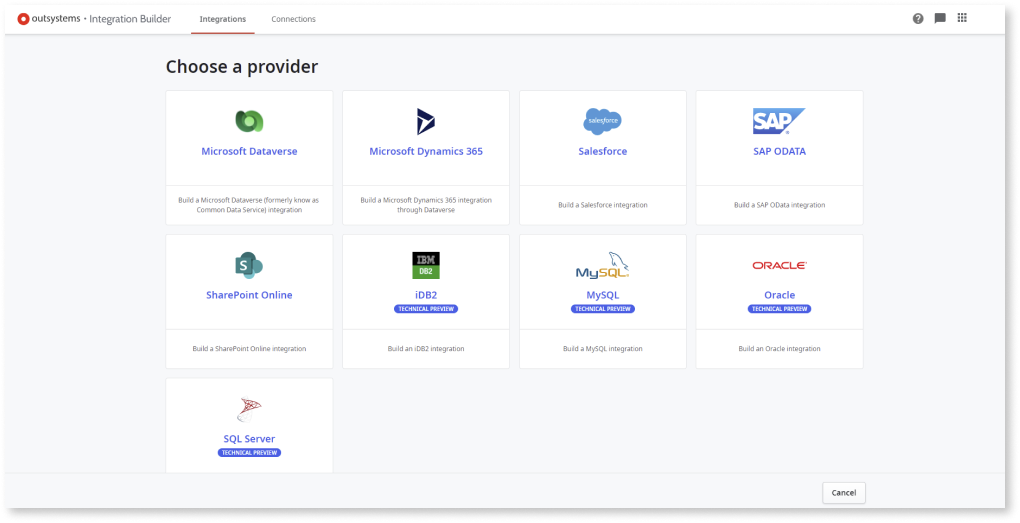
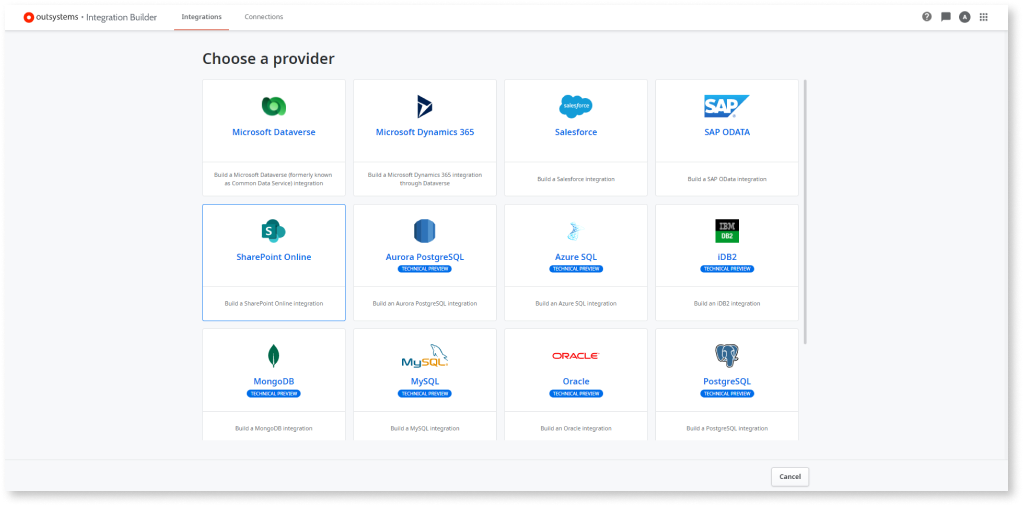
no message

diff --git a/src/extensibility-and-integration/external-database/mongo-db.md b/src/extensibility-and-integration/external-database/mongo-db.md
@@ -1,0 +1,250 @@
+---
+summary: Learn how to use a MongoDB integration in your apps.
+---
+
+# Using MongoDB integration
+
+After [publishing a MongoDB integration](integrate-external-db-ib.md#review) and [referencing it in an app](integrate-external-db-ib.md#use), you can start using the integration to interact with the MongoDB database.
+
+## Modules in MongoDB integrations { #structure }
+
+Integrations with MongoDB include one app with the following modules:
+
+* A **library module** that exposes Server Actions with logic to interact with MongoDB data. By default, the module name has a "_DRV" suffix, meaning "driver".
+
+* A **service module** that provides an abstraction layer on top of the Server Actions from the library module. Your apps should reference this module when interacting with MongoDB. The Server Actions exposed in this module use the credentials stored in connections to authenticate requests, and you don't need to provide authentication data in each Server Action call. By default, the module name has a "_IS" suffix, meaning "integration service". with suffixes DRV and IS in their names.
+
+### Actions in the service module { #actions }
+
+Use the server actions in the service module to interact with the MongoDB database.
+
+The service module includes the following server actions:
+
+* **Search&lt;collection-name&gt;Documents** - Searches for documents in the MongoDB collection that match the given filters. You can use the **Projection** input to limit the amount of data that MongoDB sends:
+
+     Projection
+    :   Include a projection document to specify or restrict fetched fields. Check [MongoDB documentation](https://docs.mongodb.com/manual/reference/glossary/#std-term-projection) for more details.
+    The **Projection** input includes two attributes:
+
+    * **IsExclude** - When set to `True`, the fields in **Field List** are excluded from the response. When set to `False`, only the fields in **Field List** and the _id are included in the response.
+    * **Fields list** - The fields to use with the projection.
+
+* **Get&lt;collection-name&gt;Document** - Gets a document from the MongoDB collection by its id.
+    This action includes two inputs:
+
+    DocumentId
+    :    The **DocumentId** input is the identifier of the document you want to fetch and you must ensure it uses the correct data type in a supported format.
+        For example, if the data type of the structure identifier,**_id**, is ObjectId, then DocumentId must have one the following formats:
+        * `"ObjectId(<hexadecimal>)"` (Shell format)
+        * `"{ $oid: ""<hexadecimal>"" }"` (both for Canonical and Relaxed Extended JSON Format)
+
+    Projection
+    :   Use this input to limit the amount of data that MongoDB sends, by including a projection document to specify or restrict fetched fields. Check [MongoDB documentation](https://docs.mongodb.com/manual/reference/glossary/#std-term-projection) for more details.
+        The **Projection** input includes two attributes:
+        * **IsExclude** - When set to `True`, the fields in **Field List** are excluded from the response. When set to `False`, only the fields in **Field List** and the _id are included in the response.
+        * **Fields list** - The fields to use with the projection.
+
+* **Count&lt;collection-name&gt;Documents** - Counts the documents in the MongoDB collection that match the given filters.
+
+* **Create&lt;collection-name&gt;Document** - Inserts a document in the MongoDB collection.
+
+* **Replace&lt;collection-name&gt;Document** - Finds the document in the MongoDB collection with the given DocumentId and replaces it.
+
+* **Delete&lt;collection-name&gt;Documents** - Deletes the documents in the MongoDB collection that match the given filters.
+
+### Converting data to and from JSON { #convert }
+
+The server actions retrieve and receive MongoDB data as JSON, so you need to create Structures to represent the JSON structure in your apps.
+
+![Example of a structure that represents a Student MongoDB document](images/structure-ss.png)
+
+You can create the Structures manually, or use **Add structure from JSON...** to automatically convert the JSON to a Structure. **Add structure from JSON...** is available in the context menu fro the **Structures** folder in the **Data** tab.
+
+Use canonical JSON format.
+
+If the JSON includes nested objects, create separate Structures for those objects. Then, in the main Structure set the data type of the attributes that represent the nested objects to the separate Structures.
+
+Furthermore, you need to convert to or from JSON when your app interacts with MongoDB data:
+
+* The server actions used to fetch data retrieve data as JSON, so you need to deserialize the data before handling it or showing it in your apps.
+
+* The server actions used to create or update data receive data as JSON, so you need to serialized your data as JSON before changing the data in the MongoDB database.
+
+## Site Property
+
+The Integration Manager MongoDB Plugin, a dependency of Integration Builder, contains one API to list and create MongoDB database connections in environments. This API only needs to be enabled in the development environment.
+To reduce potential attack vectors in your production environments, in the same plugin you can find a site property to disable the API. Disable this site property in all environments except the development environment.
+**Enable_MongoDB_IntegrationBuilder_API** site property can be found in the **IM_MongoDB_API** module under the Integration Manager MongoDB Plugin application. The default value is **True** (enabled).
+
+## Prerequisites
+
+Before you start, ensure you created an app with a module and [added the integration as a dependency to your module in Service Studio](integrate-external-db-ib.md#use).
+
+## Add a record
+
+Adding a record, known as a document in MongoDB, includes the following key steps:
+
+![Key steps to add a record using a MongoDB integration](images/add-record-diag.png)
+
+1. [Create a Structure to represent a MongoDB document](#structure-record).
+
+1. [In an action, create a local variable or input parameter to hold data](#fetch-record).
+
+1. [Serialize the data](#deserialize-record).
+
+1. [Save the data in MongoDB using the **Create&lt;collection-name&gt;Document** action](#fetch-record).
+
+### Create structure
+
+Start by creating a Structure that represents the JSON structure of the document you want your app to interact with.
+
+Don’t include the document identifier if you want Integration Builder to generate new identifiers while creating documents.
+
+Check the [converting data to and from JSON](#convert) to learn more about creating the Structure.
+
+### Create a local variable or input parameter
+
+Now in the action where you want to add data, create a Local Variable or input parameter to hold the data before sending it to the MongoDB database. Do the following:
+
+1. Add a **Local Variable** to the screen. If you are creating an action that isn't in a screen, create an **Input Parameter** in the action itself.
+
+1. Set the **Data Type** of the Local Variable or Input Parameter as the structure you created previously.
+
+1. If you are creating an action in a screen, ensure that the **Variable** of each input UI element uses the correct attributes of **Local Variable**.
+
+### Serialize data
+
+Now in the action where you want to add data, do the following:
+
+1. In the action flow, add a **Serialize JSON**.
+
+1. In the properties of **Serialize JSON**, set **Data** as the **Local Variable** or **Input Parameter** you created previously.
+
+### Save data
+
+Save the serialized JSON data to your MongoDB database, by doing the following:
+
+1. After **Serialize JSON**, add the **Create&lt;collection-name&gt;Document** action.
+
+1. In the properties of **Create&lt;collection-name&gt;Document**, set **Documentjson** as the JSON output of the Serialize JSON action
+
+## Fetch a record
+
+Fetching a record, known as a document in MongoDB, includes the following key steps:
+
+![Key steps to fetch a record using a MongoDB integration](images/fetch-record-diag.png)
+
+1. [Create a Structure to represent a MongoDB document](#structure-record).
+
+1. [In an action, fetch data using the **Get&lt;collection-name&gt;Document** action](#fetch-record).
+
+1. [Deserialize the data received](#deserialize-record).
+
+1. [Assign the data to the output of the action](#assign-record)
+
+### Create structure { #structure-record }
+
+Start by creating a Structure that represents the JSON structure of the document you want your app to interact with.
+
+Check the [converting data to and from JSON](#convert) to learn more about creating the Structure.
+
+### Fetch data { #fetch-record }
+
+Now in the action where you want to fetch data, do the following:
+
+1. In the action flow, add the **Get&lt;collection-name&gt;Document** action.
+
+1. Set the inputs of **Get&lt;collection-name&gt;Document**.
+
+<div class="info" markdown="1">
+
+Check the [section with the list of actions in the service module](#actions) to learn about the inputs of this action.
+
+</div>
+
+### Deserialize data { #deserialize-record }
+
+Deserialize the record and assign it to the output parameter by doing the following:
+
+1. In the action flow after **Get&lt;collection-name&gt;Document**, add a **Deserialize JSON**.
+
+1. Set the following **Deserialize JSON** properties:
+
+    * Set **JSON String** as the output of the **Get&lt;collection-name&gt;Document** action, `Get<collection-name>Document.DocumentJson`.
+    * Set **Data Type** as the structure you previously created.
+
+### Assign data to output parameter { #assign-record }
+
+Assign the deserialize data to the output parameter by doing the following:
+
+1. Set the **Data Type** of the **Output Parameter** as the structure you previously created.
+
+1. After the **Deserialize JSON**, add an **Assign**.
+
+1. Assign the output of **Deserialize JSON**, JSONDeserialize&lt;structure&gt;.Data, to the **Output Parameter**, &lt;output-parameter&gt;, by adding the following **Assignment**:
+
+    * `<output-parameter>` = `JSONDeserialize<structure>.Data`
+
+If you completed the previous steps in the **Data Action** of a screen, you can [show the record in a screen](../../develop/data/query/fetch-data-ib.md#show-a-single-record--show-record).
+
+## Fetch a list of records
+
+Fetching a list of records, known as documents in MongoDB, includes the following key steps:
+
+![Key steps to fetch a list of records using a MongoDB integration](images/fetch-list-diag.png)
+
+1. [Create a Structure to represent a MongoDB document](#structure-list).
+
+1. [In an action, fetch data using the **Search&lt;collection-name&gt;Documents** action](#fetch-list).
+
+1. [Deserialize the data received and append it to the output of the action](#deserialize-list).
+
+### Create structure { #structure-list }
+
+Start by creating a Structure that represents the JSON structure of the document you want your app to interact with.
+
+Check the [converting data to and from JSON](#convert) to learn more about creating the Structure.
+
+### Fetch data { #fetch-list }
+
+To fetch data, in the flow of an action, add the **Search&lt;collection-name&gt;Documents** action.
+
+<div class="info" markdown="1">
+
+To limit the amount of data that MongoDB sends, use the **Projection** input of **Search&lt;collection-name&gt;Documents**.
+
+Check the [section with the list of actions in the service module](#actions) to learn about the **Projection** input of this action.
+
+</div>
+
+### Deserialize and assign data { #deserialize-list }
+
+Now deserialize the list of records and append the records to the output parameter by doing the following:
+
+1. Set the **Data Type** of the **Output Parameter** as a list of the structure you previously created. Do this by selecting **List...** in the **Data Type** dropdown, and then selecting the structure you created.
+
+1. In the action flow after **Search&lt;collection-name&gt;Documents**, add a **For Each**.
+
+1. In the **For Each** properties, set **Record List** as the output of the **Search&lt;collection-name&gt;Documents** action, `Search<collection-name>Documents.Results`.
+
+1. In the action flow, next to the **For Each**, add a **Deserialize JSON**.
+
+1. Connect the **For Each** to **Deserialize JSON**.
+
+1. Set the following **Deserialize JSON** properties:
+
+    * Set **JSON String** as the output of the **Search&lt;collection-name&gt;Documents** action, `Search<collection-name>Documents.Results.Current`.
+    * Set **Data Type** as the structure you previously created.
+
+1. After **Deserialize JSON**, add a **ListAppend** action.
+
+1. Connect **Deserialize JSON** to **ListAppend**.
+
+1. In the **ListAppend** properties, set the inputs as follows:
+
+    * Set **List** as the Output Parameter, `<output-parameter>`.
+    * Set **Element** as the output of **Deserialize JSON**, `JSONDeserialize<structure>.Data`.
+
+1. Connect **ListAppend** to the **For Each**.
+
+If you completed the previous steps in the **Data Action** of a screen, you can [show the list of records in a screen](../../develop/data/query/fetch-data-ib.md#show-a-list-of-records--show-list).

diff --git a/src/extensibility-and-integration/external-database/integrate-external-db-ib.md b/src/extensibility-and-integration/external-database/integrate-external-db-ib.md
@@ -151,7 +151,7 @@ Create a new connection by following these steps:
 
 1. Select the new integration, click **Next**, and continue with [selecting tables or collections](#select-database).
 
-#### Request a new connection 3 { #option-3 }
+#### Request a new connection { #option-3 }
 
 <div class="info" markdown="1">
 
@@ -272,4 +272,4 @@ Depending on the type of database you integrated with, follow the steps on one o
 1. Select the integration, then select the server actions you want to use in your application, and finally select **Apply**.
 
 You can now use the Server Actions of the integration to show and manipulate data from the MongoDB database.
-To learn more about how to use MongoDB integration in your app, check the [this article]().
+To learn more about how to use MongoDB integration in your apps, check the [this article](mongo-db.md).
